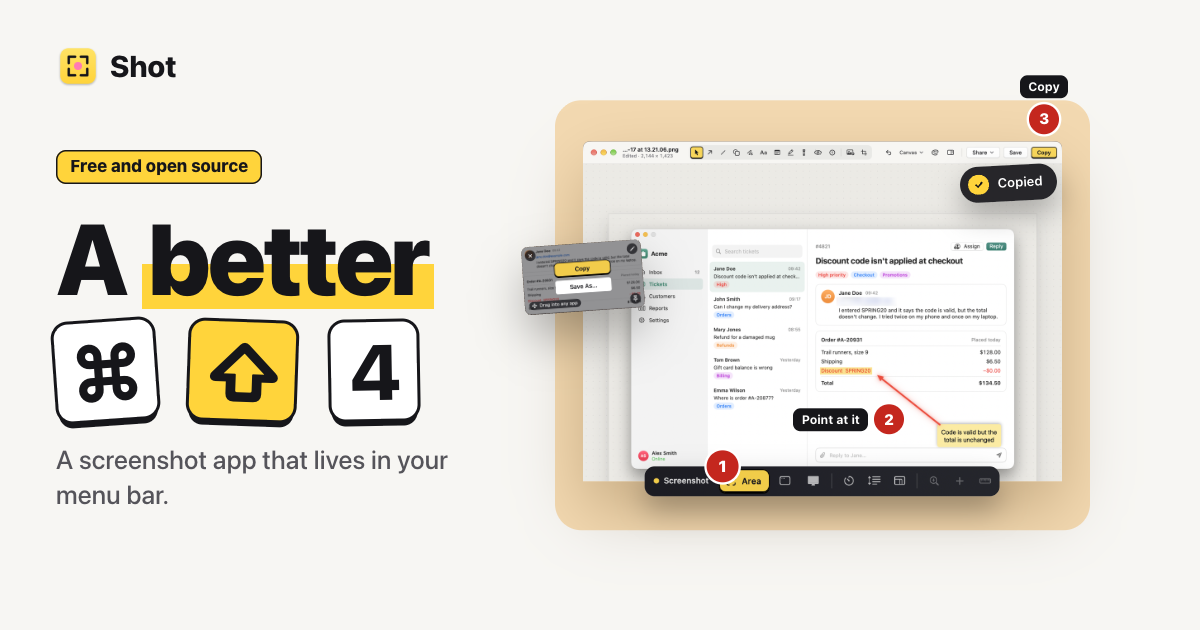
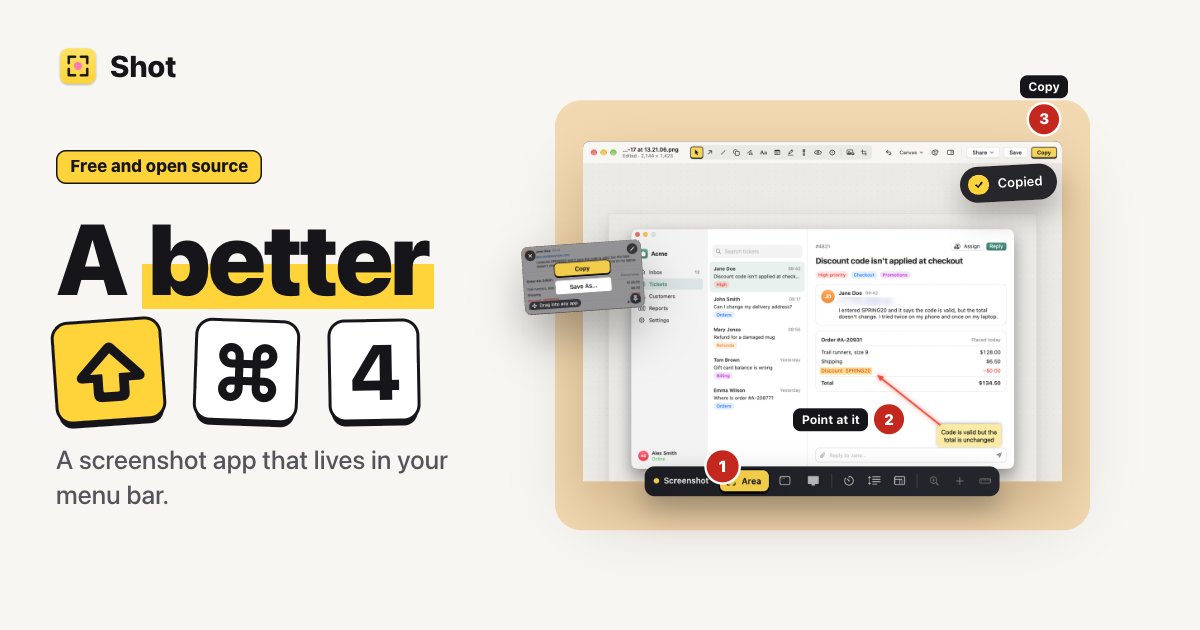
fix: write the screenshot shortcuts as ⇧⌘, the order macOS uses (#1450)
Closes #1448

The Shortcuts step of the welcome window wrote the same shortcut two
ways: the switch said "Use Shot for ⌘⇧4 and ⌘⇧5", while the big keys
beside it showed ⇧ ⌘ 4. macOS always puts Shift before Command, and
Shot's own keycaps already do, so the written ⌘⇧ order was the odd one
out.

What changed:
- The switch label in the welcome window and Settings › Shortcuts, with
its key and all 8 translations in the strings catalog
- The user guide, README, landing page (including the drawn keycaps),
the screenshot apps page and the share card text
- The keyboard shortcuts and troubleshooting share cards, re-rendered
with `npm run og`
- Code comments and design docs, so nobody copies the old order back in

⌃⇧ stays as it is, since Control already comes before Shift.

Not done here: the welcome window screenshot on the Get started page
still shows the old label. #1449 changes that step's picture too, so it
gets reshot once, after that lands.

Checked: `make lint` (strings catalog included) and `make test` pass.

Changed region(s): [[0.0308, 0.4825, 0.2467, 0.6937]]

diff --git a/Sources/Shot/SystemShortcuts.swift b/Sources/Shot/SystemShortcuts.swift
@@ -4,7 +4,7 @@ import ShotCore
 
 private let log = Logger.shot("system-shortcuts")
 
-/// Hands ⌘⇧4 and ⌘⇧5 between macOS and Shot.
+/// Hands ⇧⌘4 and ⇧⌘5 between macOS and Shot.
 @MainActor
 enum SystemShortcuts {
     private static var hotkeys: [String: Any] {
@@ -60,7 +60,7 @@ enum SystemShortcuts {
         }
     }
 
-    /// Turns ⌘⇧6 back on for people whose takeover included it for text capture. Only once, and
+    /// Turns ⇧⌘6 back on for people whose takeover included it for text capture. Only once, and
     /// only when Shot turned it off, so a choice made in System Settings sticks.
     static func giveBackTextCaptureKeyIfNeeded() {
         let store = UserDefaults.standard
@@ -76,14 +76,14 @@ enum SystemShortcuts {
         if prefs.disabledSystemScreenshots, let updated = SystemScreenshotShortcut.givingBackTextCaptureKey(in: hotkeys) {
             apply(updated, wait: false)
             guard SystemScreenshotShortcut.givingBackTextCaptureKey(in: hotkeys) == nil else {
-                log.error("macOS did not turn ⌘⇧6 back on")
+                log.error("macOS did not turn ⇧⌘6 back on")
                 return
             }
         }
         store.set(true, forKey: PreferenceKey.gaveBackTextCaptureKey)
     }
 
-    /// Turns ⌘⇧3 back on for people whose takeover included it, as ⌘⇧6 is above. Only once, and only when Shot turned it
+    /// Turns ⇧⌘3 back on for people whose takeover included it, as ⇧⌘6 is above. Only once, and only when Shot turned it
     /// off, so a choice made in System Settings sticks.
     static func giveBackFullScreenKeyIfNeeded() {
         let prefs = Preferences()
@@ -93,7 +93,7 @@ enum SystemShortcuts {
         if prefs.disabledSystemScreenshots, let updated = SystemScreenshotShortcut.givingBackFullScreenKey(in: hotkeys) {
             apply(updated, wait: false)
             guard SystemScreenshotShortcut.givingBackFullScreenKey(in: hotkeys) == nil else {
-                log.error("macOS did not turn ⌘⇧3 back on")
+                log.error("macOS did not turn ⇧⌘3 back on")
                 return
             }
         }

diff --git a/Sources/Shot/Settings/SettingsView.swift b/Sources/Shot/Settings/SettingsView.swift
@@ -1339,7 +1339,7 @@ private struct DevicePicker: View {
 
 // MARK: Shortcuts
 
-/// Settings › Shortcuts (Library & Settings › Settings · Shortcuts): the switch that takes ⌘⇧4 and ⌘⇧5 from macOS, each
+/// Settings › Shortcuts (Library & Settings › Settings · Shortcuts): the switch that takes ⇧⌘4 and ⇧⌘5 from macOS, each
 /// action's global shortcut with its icon, and a reference of the keys that work while picking what to capture. Restore
 /// Defaults sits in the title bar (`RestoreShortcutsButton`).
 private struct ShortcutSettings: View {
@@ -1355,7 +1355,7 @@ private struct ShortcutSettings: View {
 
     var body: some View {
         SettingsCard {
-            ToggleRow(title: "Use Shot for ⌘⇧4 and ⌘⇧5", subtitle: "Off gives macOS its screenshot keys back, and Shot’s default shortcuts become ⌃⇧4 and ⌃⇧5.", isOn: useShot)
+            ToggleRow(title: "Use Shot for ⇧⌘4 and ⇧⌘5", subtitle: "Off gives macOS its screenshot keys back, and Shot’s default shortcuts become ⌃⇧4 and ⌃⇧5.", isOn: useShot)
             if replacesSystemScreenshots && macOSOwnsKeys {
                 SettingRow(title: "macOS still uses these keys", subtitle: "Turn off the Screenshots shortcuts under Keyboard Shortcuts.") {
                     Button("Open") { SystemShortcuts.openKeyboardSettings() }
@@ -1393,7 +1393,7 @@ extension Notification.Name {
     fileprivate static let shortcutsRestored = Notification.Name("ShotShortcutsRestored")
 }
 
-/// Restore Defaults in the title bar while Shortcuts shows: it puts every shortcut back and gives the ⌘⇧4 and ⌘⇧5 keys
+/// Restore Defaults in the title bar while Shortcuts shows: it puts every shortcut back and gives the ⇧⌘4 and ⇧⌘5 keys
 /// to Shot again, as the button under the shortcuts did before.
 private struct RestoreShortcutsButton: View {
     var body: some View {

diff --git a/Sources/ShotCore/SystemScreenshotShortcuts.swift b/Sources/ShotCore/SystemScreenshotShortcuts.swift
@@ -5,15 +5,15 @@ public enum SystemScreenshotShortcut: Int, CaseIterable, Sendable {
     case saveArea = 30
     case options = 184
 
-    /// ⌘⇧6, which Shot took over for text capture until it dropped that feature.
+    /// ⇧⌘6, which Shot took over for text capture until it dropped that feature.
     static let textCaptureID = "181"
-    /// ⌘⇧3, which Shot took over until Tab on the overlay replaced a full-screen shortcut.
+    /// ⇧⌘3, which Shot took over until Tab on the overlay replaced a full-screen shortcut.
     static let fullScreenID = "28"
 
     public static let domain = "com.apple.symbolichotkeys"
     public static let key = "AppleSymbolicHotKeys"
 
-    /// Character, virtual key code and Cocoa modifier flags (⌘⇧) of the macOS default.
+    /// Character, virtual key code and Cocoa modifier flags (⇧⌘) of the macOS default.
     var defaultParameters: [Int] {
         let commandShift = 0x10_0000 | 0x2_0000
         switch self {
@@ -51,12 +51,12 @@ public enum SystemScreenshotShortcut: Int, CaseIterable, Sendable {
         return result
     }
 
-    /// Returns `hotkeys` with ⌘⇧6 turned back on and its key kept, or `nil` when it's already on.
+    /// Returns `hotkeys` with ⇧⌘6 turned back on and its key kept, or `nil` when it's already on.
     public static func givingBackTextCaptureKey(in hotkeys: [String: Any]) -> [String: Any]? {
         givingBack(textCaptureID, in: hotkeys)
     }
 
-    /// Returns `hotkeys` with ⌘⇧3 turned back on and its key kept, or `nil` when it's already on.
+    /// Returns `hotkeys` with ⇧⌘3 turned back on and its key kept, or `nil` when it's already on.
     public static func givingBackFullScreenKey(in hotkeys: [String: Any]) -> [String: Any]? {
         givingBack(fullScreenID, in: hotkeys)
     }

diff --git a/Sources/ShotCore/Preferences.swift b/Sources/ShotCore/Preferences.swift
@@ -96,9 +96,9 @@ public enum PreferenceKey {
     /// True while the macOS screenshot shortcuts are off because Shot turned them off. Not a
     /// setting, so resetting settings keeps it and Shot can still give the keys back.
     public static let disabledSystemScreenshots = "disabledSystemScreenshots"
-    /// True once Shot has given ⌘⇧6 back to macOS, so it does that only once.
+    /// True once Shot has given ⇧⌘6 back to macOS, so it does that only once.
     public static let gaveBackTextCaptureKey = "gaveBackTextCaptureKey"
-    /// True once Shot has given ⌘⇧3 back to macOS, so it does that only once.
+    /// True once Shot has given ⇧⌘3 back to macOS, so it does that only once.
     public static let gaveBackFullScreenKey = "gaveBackFullScreenKey"
     /// True once launch has kept the magnifier, crosshair and size label on for someone who used Shot while they started on.
     /// Not a setting, so resetting settings keeps it.

diff --git a/Sources/Shot/WelcomeWindow.swift b/Sources/Shot/WelcomeWindow.swift
@@ -397,7 +397,7 @@ private struct SetupStep: View {
     var body: some View {
         StepPage(model: model, title: "Make it yours", subtitle: "Two choices. You can change both later in Settings.") {
             SettingsCard {
-                ToggleRow(title: "Use Shot for ⌘⇧4 and ⌘⇧5", subtitle: keysSubtitle, isOn: $model.usesSystemKeys)
+                ToggleRow(title: "Use Shot for ⇧⌘4 and ⇧⌘5", subtitle: keysSubtitle, isOn: $model.usesSystemKeys)
                 ToggleRow(title: "Open Shot at login", subtitle: "So your shortcuts work after a restart.", isOn: $model.opensAtLogin)
             }
         } picture: {

diff --git a/Sources/ShotCore/ShotAction.swift b/Sources/ShotCore/ShotAction.swift
@@ -31,7 +31,7 @@ public enum ShotAction: String, CaseIterable, Sendable {
         }
     }
 
-    /// The default once Shot takes over ⌘⇧4 and ⌘⇧5 from macOS.
+    /// The default once Shot takes over ⇧⌘4 and ⇧⌘5 from macOS.
     public func defaultCombo(replacingSystemScreenshots: Bool) -> KeyCombo? {
         guard replacingSystemScreenshots else {
             return defaultCombo

diff --git a/site/src/guide/01-get-started.md b/site/src/guide/01-get-started.md
@@ -27,18 +27,18 @@ Download the zip from the [latest release](https://github.com/LorcanChinnock/sho
 
 ## Follow the welcome window
 
-![The welcome window on its Shortcuts step, titled Make it yours, with Permission ticked and Try it still to come along the top. Use Shot for ⌘⇧4 and ⌘⇧5 is on, Open Shot at login is off, and the screenshot keys are drawn as keycaps beside them above a yellow Continue button](../../../docs/media/welcome.png)
+![The welcome window on its Shortcuts step, titled Make it yours, with Permission ticked and Try it still to come along the top. Use Shot for ⇧⌘4 and ⇧⌘5 is on, Open Shot at login is off, and the screenshot keys are drawn as keycaps beside them above a yellow Continue button](../../../docs/media/welcome.png)
 
 A short welcome window walks you through up to three steps: **Permission**, **Shortcuts** and **Try it**. They're named across the top of the window, with a tick beside each one you've done, so you can see how far you've got. **Back** in the bottom left returns to the step before. You can close the window at any point to skip the rest.
 
 1. **Permission.** macOS needs screen recording access for every capture. Click **Grant**, turn Shot on under **Screen & System Audio Recording**, then click **Relaunch**. macOS only applies the permission after Shot restarts. If Shot already has it, the step is ticked and the window starts on the next one.
-2. **Shortcuts.** Under **Make it yours**, choose whether Shot takes over the screenshot keys <kbd>⌘⇧4</kbd> and <kbd>⌘⇧5</kbd>, and whether it opens when you log in. Both start on. Click **Continue** to apply them. If you close the window here instead, macOS keeps its keys and Shot doesn't open at login.
-3. **Try it.** Press <kbd>⌘⇧4</kbd> and drag across anything on screen. The step gets its tick, and the window shows a few tips and a **Done** button. Click **Skip** if you'd rather try it later.
+2. **Shortcuts.** Under **Make it yours**, choose whether Shot takes over the screenshot keys <kbd>⇧⌘4</kbd> and <kbd>⇧⌘5</kbd>, and whether it opens when you log in. Both start on. Click **Continue** to apply them. If you close the window here instead, macOS keeps its keys and Shot doesn't open at login.
+3. **Try it.** Press <kbd>⇧⌘4</kbd> and drag across anything on screen. The step gets its tick, and the window shows a few tips and a **Done** button. Click **Skip** if you'd rather try it later.
 
 Shot doesn't ask for Accessibility access up front. Only capturing just the page of a browser window needs it, to find where a browser shows its page, so Shot asks when you turn on **Capture only the page in browser windows** in **Settings › Capture**. To set it up ahead of time, grant it in **Settings › About**.
 
 > [!TIP]
-> Turned off **Use Shot for ⌘⇧4 and ⌘⇧5**? Shot uses <kbd>⌃⇧4</kbd> and <kbd>⌃⇧5</kbd> instead, and the macOS screenshot tool keeps its keys. Either way, macOS gets its keys back whenever Shot quits.
+> Turned off **Use Shot for ⇧⌘4 and ⇧⌘5**? Shot uses <kbd>⌃⇧4</kbd> and <kbd>⌃⇧5</kbd> instead, and the macOS screenshot tool keeps its keys. Either way, macOS gets its keys back whenever Shot quits.
 
 ## Where to find Shot
 
@@ -50,8 +50,8 @@ After each capture, Shot saves it, copies it, and shows a small [Quick Access](#
 
 | Press | To |
 |---|---|
-| <kbd>⌘⇧4</kbd> | Take a screenshot. Press <kbd>Tab</kbd> to pick an area, a window or the whole screen. |
-| <kbd>⌘⇧5</kbd> | Record your screen. |
+| <kbd>⇧⌘4</kbd> | Take a screenshot. Press <kbd>Tab</kbd> to pick an area, a window or the whole screen. |
+| <kbd>⇧⌘5</kbd> | Record your screen. |
 
 Every other shortcut is on the [Keyboard shortcuts](#keyboard-shortcuts) page.
 

diff --git a/site/DESIGN.md b/site/DESIGN.md
@@ -44,7 +44,7 @@ All of them are classes in `src/styles/global.css`, so each page uses them witho
 - **Guide** (`layouts/Prose.astro` and `pages/docs/[page].astro`, from the board **Site · guide page**): three columns in the 1360px container.
   - Left: the pages under their groups, each group with a colour marker (Get started the accent, Capture `--tag-capture`, Edit and share `--tag-editor`, Reference `--tag-release`, Help `--tag-gallery`). The current page is a yellow ink chip.
   - Middle: the group and reading time, the title with the highlighter under its last word, and the lede. Screenshots sit on the group's pastel panel (sand, blush, sky, lilac, sage, as on the social cards). Steps are white cards on red counter badges. The Tip is a tilted sticky note, the Note a blue callout and Watch out a red one. Tables are quiet cards, with an ink outline when the first column holds key caps. The page ends with a GitHub link for reporting a gap, an edit link, and the previous and next pages, where Next is the yellow ink card.
-  - Right: "On this page", with the section you're reading marked in red, and a dark "Try it now" card with ⌘⇧4 or ⌘⇧5 on pages about screenshots or recordings.
+  - Right: "On this page", with the section you're reading marked in red, and a dark "Try it now" card with ⇧⌘4 or ⇧⌘5 on pages about screenshots or recordings.
   - The search is in the header, opens its results under the field, and takes `/` to focus. Code blocks have a Copy button that says Copied ✓ in green, or "Press ⌘C" with the code selected.
   - Between 1000 and 1280px "On this page" moves under the page list. Under 1000px both lists become cards that open, above the article, and the "Try it now" card is hidden.
 
@@ -74,7 +74,7 @@ The page needs no animation script, and a browser without scroll timelines or vi
 
 ## Social cards
 
-`npm run og` renders each card from the site itself: the home card is the hero (`A better ⌘⇧4` beside the hero scene, as Reduce Motion shows it). A guide page's card swaps the headline for the page's title, with its group as a chip, and shows what the page is about in the window: the guide's own screenshot where it has one, otherwise a drawing in the site's style (keycaps for the shortcuts page, a command for removing Shot). The scenes are listed in `scripts/og.mjs`, each on its group's pastel panel; a page without one shows the hero scene. Cards reuse `global.css` and `HeroStage.astro`, so a change to either shows up the next time the cards are rendered.
+`npm run og` renders each card from the site itself: the home card is the hero (`A better ⇧⌘4` beside the hero scene, as Reduce Motion shows it). A guide page's card swaps the headline for the page's title, with its group as a chip, and shows what the page is about in the window: the guide's own screenshot where it has one, otherwise a drawing in the site's style (keycaps for the shortcuts page, a command for removing Shot). The scenes are listed in `scripts/og.mjs`, each on its group's pastel panel; a page without one shows the hero scene. Cards reuse `global.css` and `HeroStage.astro`, so a change to either shows up the next time the cards are rendered.
 
 ## Rules
 

diff --git a/site/src/guide/09-keyboard-shortcuts.md b/site/src/guide/09-keyboard-shortcuts.md
@@ -10,8 +10,8 @@ These work in any app, while Shot is running:
 
 | Shortcut | Action |
 |---|---|
-| <kbd>⌘⇧4</kbd> | Take a screenshot. Press <kbd>Tab</kbd> to pick an area, a window or the full screen. |
-| <kbd>⌘⇧5</kbd> | Record. Press <kbd>Tab</kbd> to pick an area, a window or the full screen. |
+| <kbd>⇧⌘4</kbd> | Take a screenshot. Press <kbd>Tab</kbd> to pick an area, a window or the full screen. |
+| <kbd>⇧⌘5</kbd> | Record. Press <kbd>Tab</kbd> to pick an area, a window or the full screen. |
 
 While you set up a recording, the record shortcut starts it. While you record, it stops the recording.
 
@@ -23,16 +23,16 @@ Shot takes these keys over from macOS while it runs, once it has Screen Recordin
 2. Under **Global**, click a shortcut. It says **Press keys…** while it waits.
 3. Press the new keys. They must include <kbd>⌘</kbd>, <kbd>⌥</kbd> or <kbd>⌃</kbd>. <kbd>Esc</kbd> cancels, and <kbd>Delete</kbd> clears the shortcut, which then says **Record Shortcut**.
 
-Shot won't take a shortcut that another action already uses, or <kbd>⌘Q</kbd>, <kbd>⌘W</kbd>, <kbd>⌘Tab</kbd>, <kbd>⌘Space</kbd>, <kbd>⌘H</kbd> or <kbd>⌘M</kbd>. **Restore Defaults**, at the top right of the window, puts them all back and turns **Use Shot for ⌘⇧4 and ⌘⇧5** back on.
+Shot won't take a shortcut that another action already uses, or <kbd>⌘Q</kbd>, <kbd>⌘W</kbd>, <kbd>⌘Tab</kbd>, <kbd>⌘Space</kbd>, <kbd>⌘H</kbd> or <kbd>⌘M</kbd>. **Restore Defaults**, at the top right of the window, puts them all back and turns **Use Shot for ⇧⌘4 and ⇧⌘5** back on.
 
 Under **While picking what to capture**, the same pane lists the main keys from [While selecting](#while-selecting).
 
 ## Keep the macOS screenshot tool
 
-Turn off **Use Shot for ⌘⇧4 and ⌘⇧5** in **Settings › Shortcuts**. macOS gets its keys back, and Shot uses the same keys with <kbd>⌃</kbd> in place of <kbd>⌘</kbd>: <kbd>⌃⇧4</kbd> and <kbd>⌃⇧5</kbd>.
+Turn off **Use Shot for ⇧⌘4 and ⇧⌘5** in **Settings › Shortcuts**. macOS gets its keys back, and Shot uses the same keys with <kbd>⌃</kbd> in place of <kbd>⌘</kbd>: <kbd>⌃⇧4</kbd> and <kbd>⌃⇧5</kbd>.
 
 > [!NOTE]
-> If you turn the macOS shortcuts back on in System Settings, Shot stops using those keys until you turn **Use Shot for ⌘⇧4 and ⌘⇧5** on again.
+> If you turn the macOS shortcuts back on in System Settings, Shot stops using those keys until you turn **Use Shot for ⇧⌘4 and ⇧⌘5** on again.
 
 ## Actions without a shortcut
 
@@ -147,7 +147,7 @@ These work while the content's app has the keyboard, so you can keep scrolling w
 | Return | Edit the selection |
 | Space | Preview the selection, or go back to the grid |
 | ← / → in the preview | Previous / next capture |
-| ⌘A, ⌘⇧A | Select all, deselect all |
+| ⌘A, ⇧⌘A | Select all, deselect all |
 | ⌘C | Copy |
 | ⌘R | Show in Finder |
 | Delete | Move to the Trash, after asking |

diff --git a/site/src/guide/11-settings.md b/site/src/guide/11-settings.md
@@ -28,7 +28,7 @@ Click **Show All** beside a section, or click a section in the sidebar, to clear
 | Capture | **After a capture:** saving, copying, Quick Access, or opening the editor instead. **Captured image:** the cursor, window shadows, and capturing only the page of a browser window. **While selecting:** the magnifier, the crosshair and the size label, with a preview that shows the ones you turn on. Move the pointer over the preview to drag an area and try them. Each of those three also has a key on the capture bar, <kbd>M</kbd>, <kbd>C</kbd> and <kbd>I</kbd>, for one capture |
 | Quick Access | **Placement:** the screen corner and how long cards stay before they close. A preview shows a card in that corner, counts down its time and slides it away when the time runs out. Point at the card in the preview to see that the timer waits while the pointer is on it |
 | Recording | **Sound:** the microphone, which input it uses (**Test** lights the level meter as you speak), and Mac sound, the sound from other apps. **Pointer:** the cursor, clicks and the region border. **After recording:** copying to the clipboard, and adjusting before every recording. **Camera:** the camera bubble, which camera and its size. Click **Preview** on the dark card above them to see your camera in the bubble's circle. **Quality:** the frame rate, and the GIF settings the video editor last used, which **Export GIF** on the Quick Access card follows |
-| Shortcuts | **Use Shot for ⌘⇧4 and ⌘⇧5**, which takes the screenshot keys from macOS. **Global:** the screenshot and record shortcuts, shown as keys. Click one and press the new keys to change it. **Restore Defaults** at the top puts them back. **While picking what to capture** lists the keys that work while you choose an area, a window or a screen, such as <kbd>D</kbd> for a delay |
+| Shortcuts | **Use Shot for ⇧⌘4 and ⇧⌘5**, which takes the screenshot keys from macOS. **Global:** the screenshot and record shortcuts, shown as keys. Click one and press the new keys to change it. **Restore Defaults** at the top puts them back. **While picking what to capture** lists the keys that work while you choose an area, a window or a screen, such as <kbd>D</kbd> for a delay |
 | About | The version and whether Shot is up to date, updates, links to this guide, the code and its licence, bug reports, the acknowledgements and sponsoring, each permission with **Allowed** or **Allow…**, the save folder, kept originals, and resetting all settings |
 
 ## Use dark mode

diff --git a/docs/architecture/website.md b/docs/architecture/website.md
@@ -10,6 +10,6 @@ Read this before changing `site/` or the user guide.
 - Motion is CSS only, using the spec's tokens (`--press`, `--pop`, `--sweep`, `--draw`, `--hover-ease`). All of it sits behind `prefers-reduced-motion: no-preference`, so Reduce Motion shows the page still. Give `animation-timeline` and `animation-range` a rule of their own, more specific than the one with the `animation` shorthand: in the same rule the minifier folds them into the shorthand, which can't hold them, and browsers drop it, which is why `.reveal` and `.pop.on-view` never moved before #1280. The only scripts are the copy buttons, the guide's search, the loops' play and pause, the "On this page" marker and closing the phone menu with Escape.
 - The user guide lives in `site/src/guide/`, one Markdown file per page at `/docs/<slug>/`, in file name order. Each file's front matter gives its `title`, a one-line `summary` and its `group`. The groups, with each one's marker colour and the pastel behind its screenshots, are in `site/src/lib/guide-files.ts`.
 - A page's address comes from its title, so when you rename a page, add its old slug to an `aliases` list in its front matter and the build redirects the old address to it.
-- Write pages as tasks, in second person: numbered steps, `<kbd>⌘⇧4</kbd>` for keys, and `> [!TIP]`, `> [!NOTE]` or `> [!WARNING]` callouts. The build turns steps into numbered cards, a Tip into a sticky note and a screenshot on its own line into a shot on its group's pastel panel.
+- Write pages as tasks, in second person: numbered steps, `<kbd>⇧⌘4</kbd>` for keys, and `> [!TIP]`, `> [!NOTE]` or `> [!WARNING]` callouts. The build turns steps into numbered cards, a Tip into a sticky note and a screenshot on its own line into a shot on its group's pastel panel.
 - Link to another page's section with just its id, `(#id)`, and the build points it at the right page.
 - A new file becomes a new page, and Pagefind indexes it for the guide's search after the build, so search works under `npm run preview` but not `npm run dev`. The changelog page and its feed are built from `CHANGELOG.md` by `site/src/lib/changelog.ts`. release-please ignores `site/`.

diff --git a/docs/redesign/spec.md b/docs/redesign/spec.md
@@ -221,7 +221,7 @@ Edits and drags are always instant. Sounds follow the capture sound setting.
 
 ### Capture bar
 
-#1075 builds Foundations › Capture bar, the strip on the selection overlay after ⌘⇧4 or ⌘⇧5. AppKit draws it into the overlay, so it uses `FloatingPanel`'s AppKit values and draws its own shadow outside the bar only.
+#1075 builds Foundations › Capture bar, the strip on the selection overlay after ⇧⌘4 or ⇧⌘5. AppKit draws it into the overlay, so it uses `FloatingPanel`'s AppKit values and draws its own shadow outside the bar only.
 
 | Part | Look |
 | --- | --- |
@@ -246,7 +246,7 @@ Edits and drags are always instant. Sounds follow the capture sound setting.
 
 ### Area capture
 
-#1076 builds Capture › Area capture: what you see while dragging out an area after ⌘⇧4. AppKit draws all of it into the overlay view, so nothing adds a screen-sized layer.
+#1076 builds Capture › Area capture: what you see while dragging out an area after ⇧⌘4. AppKit draws all of it into the overlay view, so nothing adds a screen-sized layer.
 
 | Part | Look |
 | --- | --- |
@@ -1272,7 +1272,7 @@ Edits and drags are always instant. Sounds follow the capture sound setting.
 
 | Group | Row | Control | Description |
 | --- | --- | --- | --- |
-| None | Use Shot for ⌘⇧4 and ⌘⇧5 | Switch | "Off gives macOS its screenshot keys back, and Shot’s default shortcuts become ⌃⇧4 and ⌃⇧5." |
+| None | Use Shot for ⇧⌘4 and ⇧⌘5 | Switch | "Off gives macOS its screenshot keys back, and Shot’s default shortcuts become ⌃⇧4 and ⌃⇧5." |
 | None | macOS still uses these keys, only while the switch is on and the macOS shortcuts are too | Open, a secondary button | "Turn off the Screenshots shortcuts under Keyboard Shortcuts." |
 | Global | Screenshot, with `viewfinder` | The recorder | None |
 | Global | Record, with `record.circle` in record red | The recorder | None |
